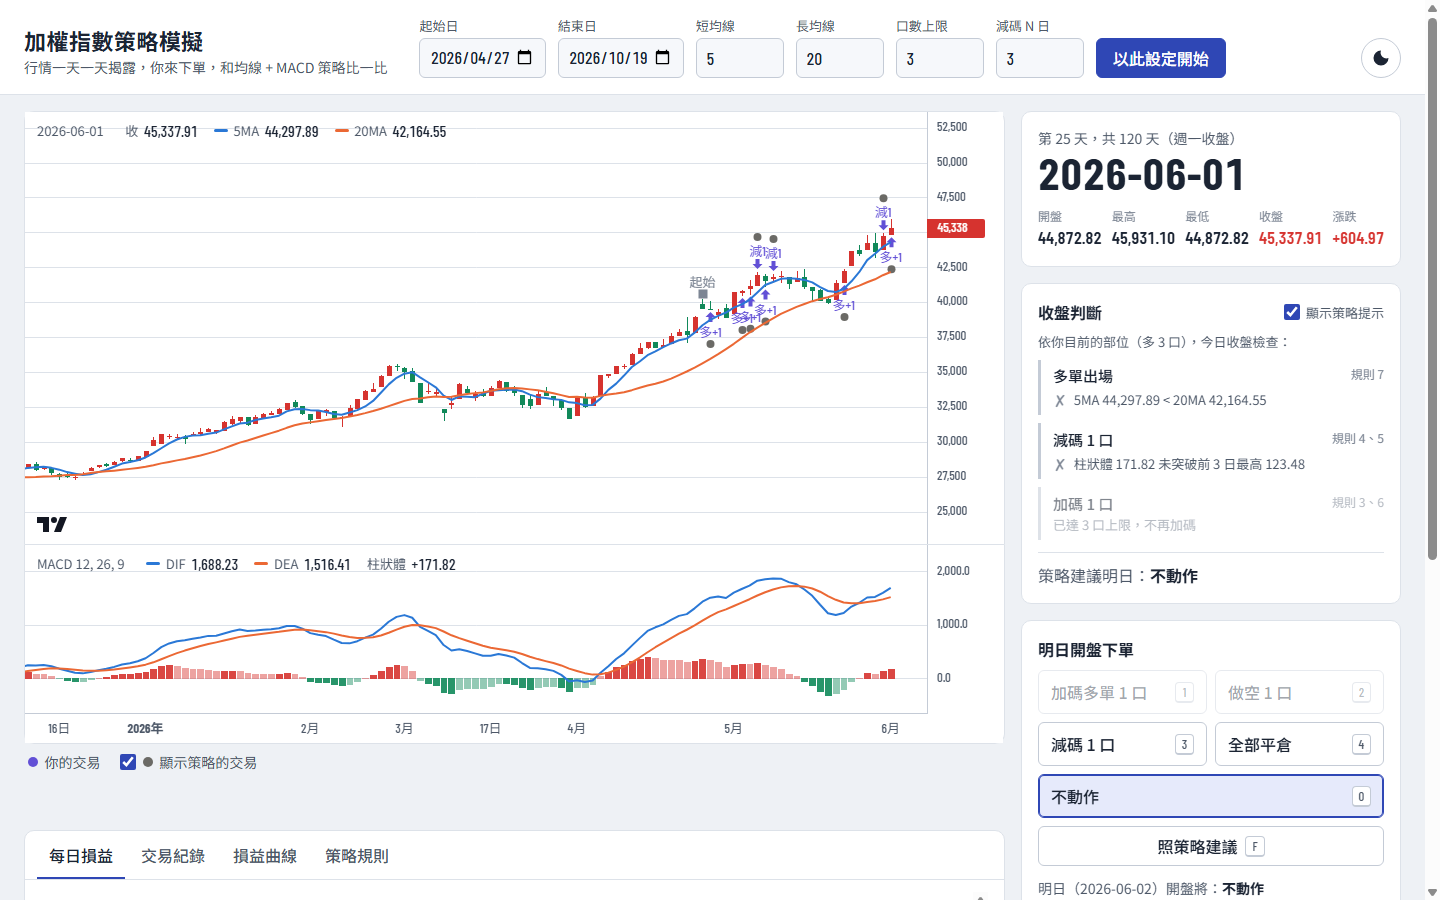
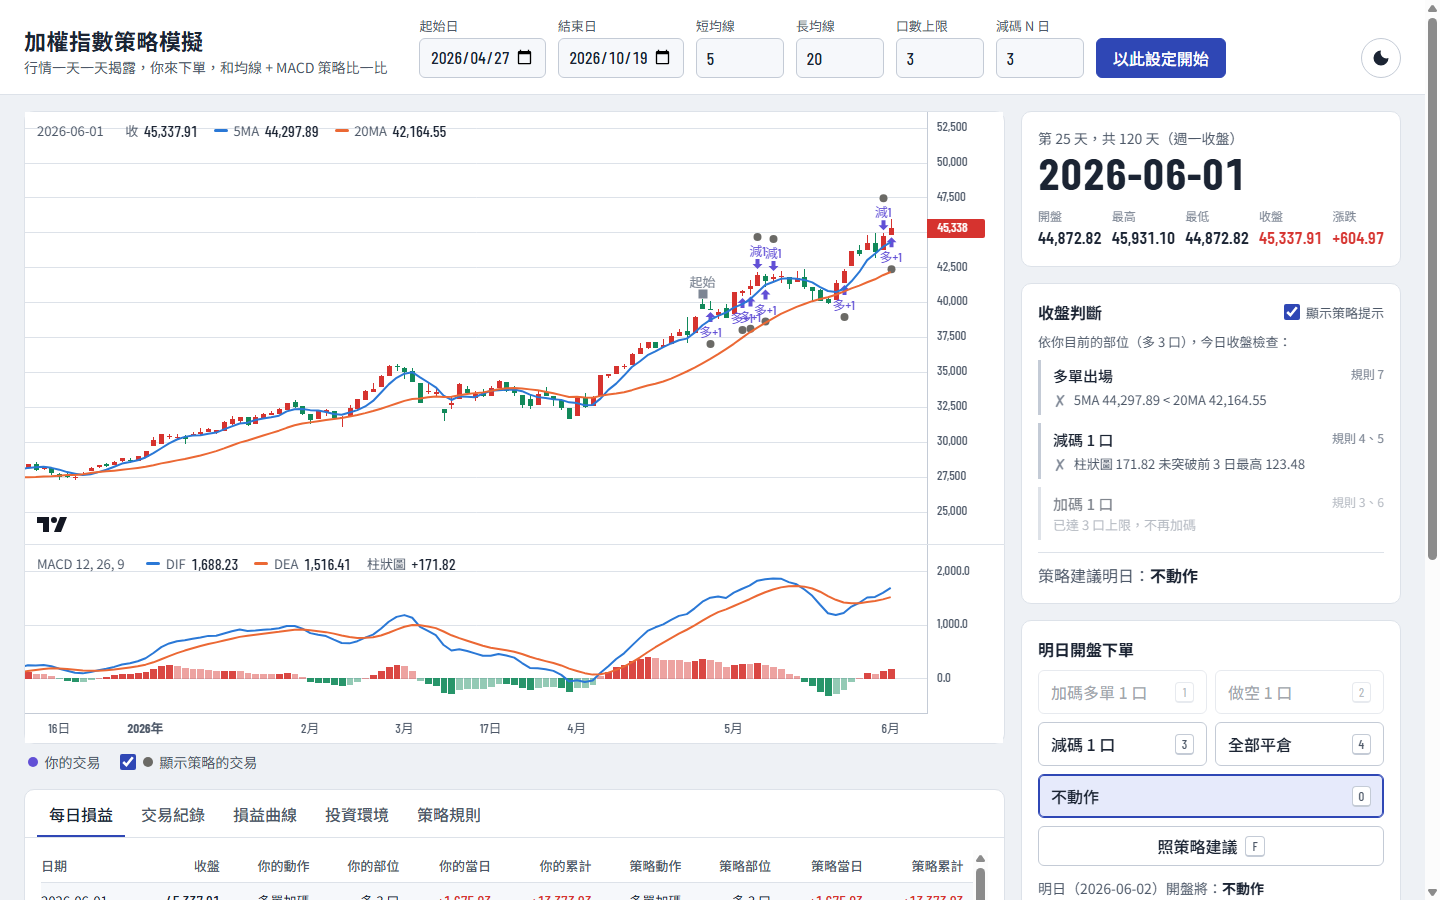
v1.1.0：新增「投資環境」分頁、改用「柱狀圖」用語、縮小版面間距
- 新增「投資環境」分頁：標的、點值、交易成本、成交方式、滑價、資金、部位規則等
- 將「柱狀體」統一改為「柱狀圖」
- 修正圖表與紀錄區塊之間被右側面板撐開的多餘空白
- 損益單位說明加註 1 點 = 1 元
- 更新 README 與截圖

diff --git a/index.html b/index.html
@@ -114,7 +114,7 @@
           </thead>
           <tbody id="accountBody"></tbody>
         </table>
-        <p class="unit">單位：點（點數 × 口數，不含交易成本）</p>
+        <p class="unit">單位：點（1 點 = 1 元，點數 × 口數，不含手續費與稅費）</p>
       </section>
     </aside>
 
@@ -123,6 +123,7 @@
         <button type="button" role="tab" id="tab-daily" aria-controls="panel-daily" aria-selected="true">每日損益</button>
         <button type="button" role="tab" id="tab-trades" aria-controls="panel-trades" aria-selected="false" tabindex="-1">交易紀錄</button>
         <button type="button" role="tab" id="tab-equity" aria-controls="panel-equity" aria-selected="false" tabindex="-1">損益曲線</button>
+        <button type="button" role="tab" id="tab-env" aria-controls="panel-env" aria-selected="false" tabindex="-1">投資環境</button>
         <button type="button" role="tab" id="tab-rules" aria-controls="panel-rules" aria-selected="false" tabindex="-1">策略規則</button>
       </div>
 
@@ -164,9 +165,34 @@
         <div id="equityChart" class="chart equity"></div>
       </div>
 
+      <div role="tabpanel" id="panel-env" aria-labelledby="tab-env" class="tab-panel" hidden>
+        <dl class="env-list">
+          <dt>標的</dt>
+          <dd>臺灣加權股價指數（TAIEX）。直接使用指數點位，不是台指期價格，因此沒有期現貨價差、到期結算與轉倉的問題。</dd>
+          <dt>點值</dt>
+          <dd>1 點 = 1 元。損益 = 點數變化 × 口數。</dd>
+          <dt>交易成本</dt>
+          <dd>不包含手續費、稅費。</dd>
+          <dt>成交方式</dt>
+          <dd>僅以每日收盤價作為判斷依據，符合條件時次日以開盤價成交。</dd>
+          <dt>滑價</dt>
+          <dd>不計滑價，假設每筆委託都能以次日開盤價全數成交，開盤跳空時也一樣。</dd>
+          <dt>資金與保證金</dt>
+          <dd>不考慮本金、保證金與追繳，可持有的部位只受「口數上限」限制。</dd>
+          <dt>部位規則</dt>
+          <dd>同一時間只持有單一方向，要反向操作必須先平倉；減碼時先平最早進場的一口（先進先出）。</dd>
+          <dt>未平倉部位</dt>
+          <dd>每天以收盤價計算未實現損益；到結束日仍未平倉的部位，以最後一天的收盤價結算。</dd>
+          <dt>指標計算</dt>
+          <dd>均線為簡單移動平均（SMA）；MACD 參數 12 / 26 / 9，以指數移動平均（EMA）計算，柱狀圖 = DIF − DEA。起始日之前的歷史行情只用來先算好指標，畫面上看不到未來的行情。</dd>
+          <dt>資料來源</dt>
+          <dd>臺灣證券交易所加權指數日線（<span id="envDataRange"></span>），休市日沒有資料。</dd>
+        </dl>
+      </div>
+
       <div role="tabpanel" id="panel-rules" aria-labelledby="tab-rules" class="tab-panel" hidden>
         <ol class="rule-list" id="ruleList"></ol>
-        <p class="muted">MACD 參數固定為 12 / 26 / 9，柱狀體 = DIF − DEA。每天收盤後判斷，隔日開盤價成交。</p>
+        <p class="muted">柱狀圖 = DIF − DEA。點值、交易成本與成交方式請見「投資環境」分頁。</p>
       </div>
     </section>
   </main>

diff --git a/tests/strategy.test.js b/tests/strategy.test.js
@@ -33,7 +33,7 @@ test('EMA 以簡單平均起始並遞推', () => {
   assert.equal(out[3], 4 * 0.5 + 2 * 0.5);
 });
 
-test('MACD 柱狀體 = DIF − DEA', () => {
+test('MACD 柱狀圖 = DIF − DEA', () => {
   const closes = Array.from({ length: 80 }, (_, i) => 100 + Math.sin(i / 5) * 10);
   const { dif, dea, hist } = Indicators.macd(closes);
   assert.equal(hist[32], null);
@@ -41,37 +41,37 @@ test('MACD 柱狀體 = DIF − DEA', () => {
   assert.ok(Math.abs(hist[50] - (dif[50] - dea[50])) < 1e-12);
 });
 
-test('空手：短均線在上且柱狀體走高 → 多單進場', () => {
+test('空手：短均線在上且柱狀圖走高 → 多單進場', () => {
   const m = fakeMarket({ maShort: [0, 0, 0, 0, 11], maLong: [0, 0, 0, 0, 10], hist: [0, 0, 0, 1, 2] });
   assert.equal(Strategy.evaluate(m, 4, 0, PARAMS).action, Action.LONG);
 });
 
-test('空手：短均線在上但柱狀體走低 → 不進場', () => {
+test('空手：短均線在上但柱狀圖走低 → 不進場', () => {
   const m = fakeMarket({ maShort: [0, 0, 0, 0, 11], maLong: [0, 0, 0, 0, 10], hist: [0, 0, 0, 2, 1] });
   assert.equal(Strategy.evaluate(m, 4, 0, PARAMS).action, Action.NONE);
 });
 
-test('空手：短均線在下且柱狀體走低 → 空單進場', () => {
+test('空手：短均線在下且柱狀圖走低 → 空單進場', () => {
   const m = fakeMarket({ maShort: [0, 0, 0, 0, 9], maLong: [0, 0, 0, 0, 10], hist: [0, 0, 0, 2, 1] });
   assert.equal(Strategy.evaluate(m, 4, 0, PARAMS).action, Action.SHORT);
 });
 
-test('持多未滿上限：柱狀體走高 → 加碼', () => {
+test('持多未滿上限：柱狀圖走高 → 加碼', () => {
   const m = fakeMarket({ maShort: [0, 0, 0, 0, 11], maLong: [0, 0, 0, 0, 10], hist: [5, 5, 5, 1, 2] });
   assert.equal(Strategy.evaluate(m, 4, 2, PARAMS).action, Action.LONG);
 });
 
-test('持多滿上限：柱狀體未突破前 3 日最高 → 減碼', () => {
+test('持多滿上限：柱狀圖未突破前 3 日最高 → 減碼', () => {
   const m = fakeMarket({ maShort: [0, 0, 0, 0, 11], maLong: [0, 0, 0, 0, 10], hist: [0, 5, 3, 4, 4.5] });
   assert.equal(Strategy.evaluate(m, 4, 3, PARAMS).action, Action.REDUCE);
 });
 
-test('持多滿上限：柱狀體突破前 3 日最高 → 續抱', () => {
+test('持多滿上限：柱狀圖突破前 3 日最高 → 續抱', () => {
   const m = fakeMarket({ maShort: [0, 0, 0, 0, 11], maLong: [0, 0, 0, 0, 10], hist: [9, 5, 3, 4, 6] });
   assert.equal(Strategy.evaluate(m, 4, 3, PARAMS).action, Action.NONE);
 });
 
-test('持多 2 口：柱狀體走低也不減碼', () => {
+test('持多 2 口：柱狀圖走低也不減碼', () => {
   const m = fakeMarket({ maShort: [0, 0, 0, 0, 11], maLong: [0, 0, 0, 0, 10], hist: [0, 5, 3, 4, 1] });
   assert.equal(Strategy.evaluate(m, 4, 2, PARAMS).action, Action.NONE);
 });
@@ -83,7 +83,7 @@ test('出場優先於減碼；出場當日符合空單條件也只平倉', () =>
   assert.ok(d.note);
 });
 
-test('空單鏡像：滿上限且柱狀體未跌破前 3 日最低 → 減碼', () => {
+test('空單鏡像：滿上限且柱狀圖未跌破前 3 日最低 → 減碼', () => {
   const m = fakeMarket({ maShort: [0, 0, 0, 0, 9], maLong: [0, 0, 0, 0, 10], hist: [0, -5, -3, -4, -4.5] });
   assert.equal(Strategy.evaluate(m, 4, -3, PARAMS).action, Action.REDUCE);
 });

diff --git a/js/ui.js b/js/ui.js
@@ -356,7 +356,7 @@
       legendItem('MACD 12, 26, 9', '', null),
       legendItem('DIF', fmtPrice(market.dif[i]), 'ma-short'),
       legendItem('DEA', fmtPrice(market.dea[i]), 'ma-long'),
-      legendItem('柱狀體', fmtSigned(market.hist[i]))
+      legendItem('柱狀圖', fmtSigned(market.hist[i]))
     );
   }
 
@@ -528,13 +528,13 @@
     const { maShort: s, maLong: l, maxLots: cap, reduceDays: n } = state.params;
     const rules = [
       `同時間最多持有 ${cap} 口，多單、空單都做（同一時間只持有單一方向）。`,
-      `多單進場：收盤時 ${s}MA 在 ${l}MA 之上，且 MACD 柱狀體大於昨日，隔日開盤做多 1 口。`,
-      `多單加碼：持有多單且未滿 ${cap} 口時，收盤柱狀體大於前一日，隔日加碼 1 口。`,
-      `減碼：持有 ${cap} 口時，若收盤柱狀體未突破前 ${n} 日最高值，隔日減碼 1 口（先平最早進場的一口）。`,
+      `多單進場：收盤時 ${s}MA 在 ${l}MA 之上，且 MACD 柱狀圖大於昨日，隔日開盤做多 1 口。`,
+      `多單加碼：持有多單且未滿 ${cap} 口時，收盤柱狀圖大於前一日，隔日加碼 1 口。`,
+      `減碼：持有 ${cap} 口時，若收盤柱狀圖未突破前 ${n} 日最高值，隔日減碼 1 口（先平最早進場的一口）。`,
       `減碼只在滿 ${cap} 口時才檢查，未滿上限不減碼。`,
       '減碼後若符合加碼條件，照樣再加碼。',
       `多單出場：收盤時 ${s}MA 跌破 ${l}MA，隔日全部平倉。`,
-      `空單規則與多單相反：${s}MA 在 ${l}MA 之下且柱狀體小於昨日時進場；柱狀體小於前一日時加碼；滿 ${cap} 口且柱狀體未跌破前 ${n} 日最低值時減碼；${s}MA 突破 ${l}MA 時出場。`,
+      `空單規則與多單相反：${s}MA 在 ${l}MA 之下且柱狀圖小於昨日時進場；柱狀圖小於前一日時加碼；滿 ${cap} 口且柱狀圖未跌破前 ${n} 日最低值時減碼；${s}MA 突破 ${l}MA 時出場。`,
       '出場當日即使符合反向進場條件，也只平倉、不反手，隔日收盤再重新判斷。同一天有多個訊號時，優先序為出場、減碼、加碼。',
     ];
     $('ruleList').replaceChildren(...rules.map((text) => el('li', { text })));
@@ -787,6 +787,7 @@
   // ---------- 啟動 ----------
   loadTheme();
   $('dataRange').textContent = `${bars[0].date} 至 ${bars[lastIndex].date}`;
+  $('envDataRange').textContent = `${bars[0].date} 至 ${bars[lastIndex].date}`;
   createCharts();
   initSettings();
   initTabs();

diff --git a/js/strategy.js b/js/strategy.js
@@ -5,9 +5,9 @@
  * 部位以帶正負號的整數表示：+n 為 n 口多單，−n 為 n 口空單，0 為空手。
  *
  * 規則（多單；空單全部相反）：
- *   進場：短均線 > 長均線，且 MACD 柱狀體 > 昨日          → 隔日多單 1 口
- *   加碼：持有多單且未達口數上限，柱狀體 > 前一日          → 隔日加碼 1 口
- *   減碼：達口數上限時，柱狀體未突破前 N 日最高值          → 隔日減碼 1 口
+ *   進場：短均線 > 長均線，且 MACD 柱狀圖 > 昨日          → 隔日多單 1 口
+ *   加碼：持有多單且未達口數上限，柱狀圖 > 前一日          → 隔日加碼 1 口
+ *   減碼：達口數上限時，柱狀圖未突破前 N 日最高值          → 隔日減碼 1 口
  *   出場：短均線 < 長均線                                  → 隔日全部平倉
  *   同日多個訊號時優先序：出場 > 減碼 > 加碼。
  *   出場當日即使符合反向進場條件也只平倉，隔日收盤再重新判斷。
@@ -109,8 +109,8 @@
 
     const bull = { text: `${sName} ${fmt(s)} > ${lName} ${fmt(l)}`, pass: s > l };
     const bear = { text: `${sName} ${fmt(s)} < ${lName} ${fmt(l)}`, pass: s < l };
-    const histUp = { text: `柱狀體 ${fmt(h)} > 昨日 ${fmt(hPrev)}`, pass: h > hPrev };
-    const histDown = { text: `柱狀體 ${fmt(h)} < 昨日 ${fmt(hPrev)}`, pass: h < hPrev };
+    const histUp = { text: `柱狀圖 ${fmt(h)} > 昨日 ${fmt(hPrev)}`, pass: h > hPrev };
+    const histDown = { text: `柱狀圖 ${fmt(h)} < 昨日 ${fmt(hPrev)}`, pass: h < hPrev };
 
     const group = (id, title, conditions, applicable = true, skipNote = null) => ({
       id,
@@ -137,8 +137,8 @@
     const recent = market.hist.slice(t - n, t);
     const extreme = isLong ? Math.max(...recent) : Math.min(...recent);
     const failBreak = isLong
-      ? { text: `柱狀體 ${fmt(h)} 未突破前 ${n} 日最高 ${fmt(extreme)}`, pass: h <= extreme }
-      : { text: `柱狀體 ${fmt(h)} 未跌破前 ${n} 日最低 ${fmt(extreme)}`, pass: h >= extreme };
+      ? { text: `柱狀圖 ${fmt(h)} 未突破前 ${n} 日最高 ${fmt(extreme)}`, pass: h <= extreme }
+      : { text: `柱狀圖 ${fmt(h)} 未跌破前 ${n} 日最低 ${fmt(extreme)}`, pass: h >= extreme };
     const atCap = size >= params.maxLots;
 
     const groups = [

diff --git a/css/style.css b/css/style.css
@@ -184,6 +184,8 @@ kbd {
 .layout {
   display: grid;
   grid-template-columns: minmax(0, 1fr) 380px;
+  /* 右側面板跨兩列且較高，多出的高度全部給第二列，圖表與紀錄之間才不會被撐開 */
+  grid-template-rows: auto 1fr;
   grid-template-areas:
     "charts panel"
     "records panel";
@@ -389,6 +391,15 @@ kbd {
 .rule-list { margin: 0 0 0.75rem; padding-left: 1.5rem; max-width: 72ch; }
 .rule-list li { margin-bottom: 0.35rem; }
 
+.env-list { margin: 0; display: grid; grid-template-columns: max-content minmax(0, 72ch); gap: 0.5rem 1.5rem; }
+.env-list dt { font-weight: 500; color: var(--ink); }
+.env-list dd { margin: 0; color: var(--ink-2); }
+
+@media (max-width: 560px) {
+  .env-list { grid-template-columns: minmax(0, 1fr); gap: 0.15rem; }
+  .env-list dd { margin-bottom: 0.5rem; }
+}
+
 /* ---------- 頁尾 ---------- */
 .footer { padding: 0.5rem 1.5rem 2rem; font-size: 0.8125rem; color: var(--muted); display: flex; flex-direction: column; gap: 0.25rem; }
 .footer a { color: var(--ink-2); }
@@ -412,6 +423,7 @@ kbd {
 @media (max-width: 1100px) {
   .layout {
     grid-template-columns: minmax(0, 1fr);
+    grid-template-rows: none;
     grid-template-areas: "charts" "panel" "records";
     padding: 1rem;
   }

diff --git a/js/indicators.js b/js/indicators.js
@@ -39,7 +39,7 @@
   }
 
   /**
-   * MACD：DIF = EMA(fast) − EMA(slow)，DEA = EMA(DIF, signal)，柱狀體 = DIF − DEA。
+   * MACD：DIF = EMA(fast) − EMA(slow)，DEA = EMA(DIF, signal)，柱狀圖 = DIF − DEA。
    */
   function macd(closes, fast = 12, slow = 26, signal = 9) {
     const emaFast = ema(closes, fast);

diff --git a/README.md b/README.md
@@ -31,16 +31,25 @@
 每天收盤後判斷，隔日開盤成交。以下以預設參數（5MA、20MA、上限 3 口、減碼 3 日）說明，多單為例，空單全部相反。
 
 1. 同時間最多持有 3 口，多單、空單都做（同一時間只持有單一方向）。
-2. **進場**：5MA 在 20MA 之上，且 MACD 柱狀體大於昨日 → 隔日做多 1 口。
-3. **加碼**：持有多單且未滿 3 口，柱狀體大於前一日 → 隔日加碼 1 口。
-4. **減碼**：持有 3 口時，柱狀體未突破前 3 日最高值 → 隔日減碼 1 口（先平最早進場的一口）。
+2. **進場**：5MA 在 20MA 之上，且 MACD 柱狀圖大於昨日 → 隔日做多 1 口。
+3. **加碼**：持有多單且未滿 3 口，柱狀圖大於前一日 → 隔日加碼 1 口。
+4. **減碼**：持有 3 口時，柱狀圖未突破前 3 日最高值 → 隔日減碼 1 口（先平最早進場的一口）。
 5. 未滿 3 口不減碼。
 6. 減碼後若符合加碼條件，照樣再加碼。
 7. **出場**：5MA 跌破 20MA → 隔日全部平倉。
 8. 空單規則與多單相反。
 9. 出場當日即使符合反向進場條件，也只平倉、不反手，隔日收盤再重新判斷。
 
-同一天有多個訊號時，優先序為出場 > 減碼 > 加碼。MACD 參數固定為 12 / 26 / 9，柱狀體 = DIF − DEA。損益以點數計算（點數 × 口數），不含手續費、稅與滑價。
+同一天有多個訊號時，優先序為出場 > 減碼 > 加碼。MACD 參數固定為 12 / 26 / 9，柱狀圖 = DIF − DEA。
+
+## 投資環境
+
+- **標的**：臺灣加權股價指數（TAIEX），直接使用指數點位，不是台指期價格，所以沒有期現貨價差與轉倉問題。
+- **點值**：1 點 = 1 元，損益 = 點數變化 × 口數。
+- **交易成本**：不包含手續費、稅費，也不計滑價。
+- **成交方式**：只用每日收盤價判斷，符合條件時次日以開盤價成交。
+- **資金**：不考慮本金與保證金，部位大小只受口數上限限制。
+- **未平倉部位**：每天以收盤價計算未實現損益，結束日以最後收盤價結算。
 
 ## 技術重點
 
